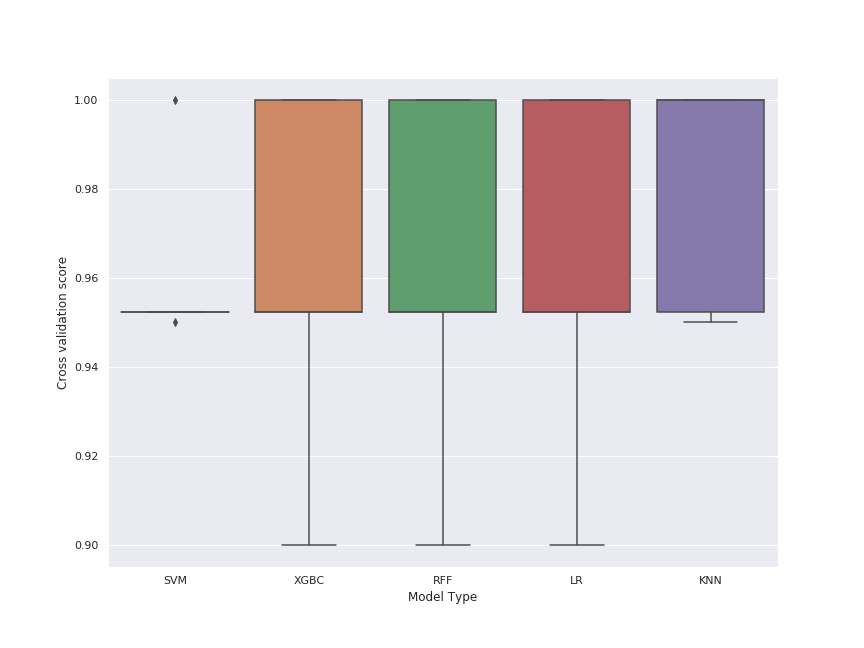
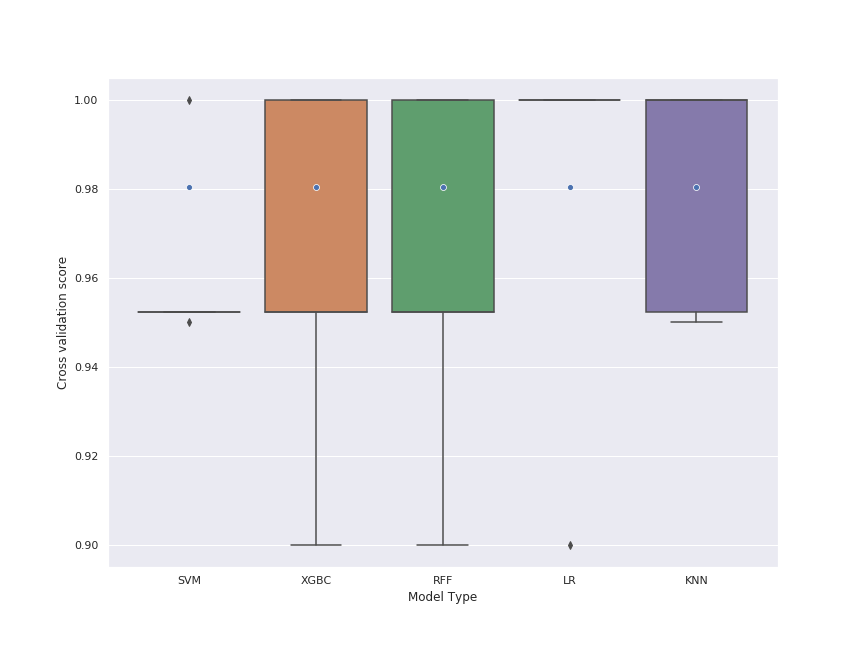
Task 1: update figures

diff --git a/Task_1/reports/figures/descriptive statistics_cross_val_scores.html b/Task_1/reports/figures/descriptive statistics_cross_val_scores.html
@@ -23,7 +23,7 @@
       <td>0.961429</td>
       <td>0.960952</td>
       <td>0.960952</td>
-      <td>0.960952</td>
+      <td>0.980000</td>
       <td>0.980476</td>
     </tr>
     <tr>
@@ -31,7 +31,7 @@
       <td>0.021587</td>
       <td>0.041568</td>
       <td>0.041568</td>
-      <td>0.041568</td>
+      <td>0.044721</td>
       <td>0.026747</td>
     </tr>
     <tr>
@@ -47,7 +47,7 @@
       <td>0.952381</td>
       <td>0.952381</td>
       <td>0.952381</td>
-      <td>0.952381</td>
+      <td>1.000000</td>
       <td>0.952381</td>
     </tr>
     <tr>
@@ -55,7 +55,7 @@
       <td>0.952381</td>
       <td>0.952381</td>
       <td>0.952381</td>
-      <td>0.952381</td>
+      <td>1.000000</td>
       <td>1.000000</td>
     </tr>
     <tr>
